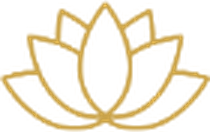
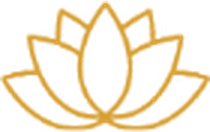
feat(pricing): alternate the badge colours and add her online illustration
Soulena asked for the family badges to alternate down the page —
green, yellow, green, yellow — with the yellow being the exact gold of
her lotus mark. Sampled off her updated Canva: #d69e30. The lotus asset
was re-keyed with that same ink, since the first extraction had averaged
the antialiased edges into a slightly duller #c9a248.

The laptop line drawing she added to the Single Session card comes with
it. The artwork is not symmetrical — the botanical sprig hangs off the
right — so centring the file would push the laptop left of the card's
axis. Her note asks for the laptop screen to line up with the middle of
the box, and the laptop sits 9.52% of the artwork width left of its own
centre, so the image is nudged back by exactly that; measured on the
rendered page, it lands within 0.04px of the card centre.

Also fixes the family blurb wrapping: it is pipe-separated and was
breaking mid-phrase on a phone ("Suitable for / all levels"). It now
breaks only at the separators.

diff --git a/src/components/PricingSection.tsx b/src/components/PricingSection.tsx
@@ -1,5 +1,12 @@
+import { Fragment } from "react";
 import { SECTION_IDS } from "@/lib/constants";
-import { PRICING, type PricingFamily, type PricingTier, type FamilyIcon } from "@/lib/pricing";
+import {
+  PRICING,
+  type PricingFamily,
+  type PricingTier,
+  type FamilyIcon,
+  type IconTone,
+} from "@/lib/pricing";
 
 // Canva page 8, redesigned by Soulena on 2026-08-19 — the bright sand panel is
 // gone. Palette and geometry were sampled straight off the export:
@@ -14,9 +21,12 @@ const GOLD = "#cba449";
 const SLATE = "#3a4e5d";
 const OLIVE = "#635f46";
 const RULE = "#d9d9d9";
-const BADGE = "#807b5d";
+const BADGE_GREEN = "#807b5d";
+// Her lotus mark and the "yellow" badges are the same ink — she asked for it
+// explicitly ("same yellow as this lotus logo").
+const BADGE_GOLD = "#d69e30";
 
-function FamilyBadge({ icon }: { icon: FamilyIcon }) {
+function FamilyBadge({ icon, tone }: { icon: FamilyIcon; tone: IconTone }) {
   const paths = {
     // three rolling lines — beach
     wave: (
@@ -57,7 +67,7 @@ function FamilyBadge({ icon }: { icon: FamilyIcon }) {
     <span
       aria-hidden
       className="absolute left-1/2 top-0 flex h-[46px] w-[46px] -translate-x-1/2 -translate-y-1/2 items-center justify-center rounded-full text-white shadow-[0_4px_10px_rgba(90,80,50,0.25)]"
-      style={{ backgroundColor: BADGE }}
+      style={{ backgroundColor: tone === "gold" ? BADGE_GOLD : BADGE_GREEN }}
     >
       <svg viewBox="0 0 24 24" fill="currentColor" className="h-[26px] w-[26px]">
         {paths[icon]}
@@ -66,13 +76,13 @@ function FamilyBadge({ icon }: { icon: FamilyIcon }) {
   );
 }
 
-function TierCard({ tier, icon }: { tier: PricingTier; icon: FamilyIcon }) {
+function TierCard({ tier, icon, tone }: { tier: PricingTier; icon: FamilyIcon; tone: IconTone }) {
   return (
     <div
       className="group relative mt-[23px] flex w-full flex-col rounded-[10px] border shadow-[6px_8px_18px_rgba(120,110,70,0.16)] transition-all duration-300 hover:-translate-y-1 hover:shadow-[8px_12px_26px_rgba(120,110,70,0.28)] sm:w-[47%] lg:w-[32%]"
       style={{ backgroundColor: CARD, borderColor: GOLD }}
     >
-      <FamilyBadge icon={icon} />
+      <FamilyBadge icon={icon} tone={tone} />
 
       <h4
         className="px-5 pb-4 pt-7 text-center font-serif text-[21px] uppercase leading-tight md:text-[24px]"
@@ -85,6 +95,20 @@ function TierCard({ tier, icon }: { tier: PricingTier; icon: FamilyIcon }) {
         <p className="text-balance text-[15px] uppercase leading-[1.45] text-brand-charcoal md:text-[16px]">
           {tier.subtitle}
         </p>
+        {tier.illustration ? (
+          /* The artwork is not symmetrical — the botanical sprig hangs off its
+             right side — so centring the file would push the laptop left. Her
+             note asks for the laptop screen to line up with the middle of the
+             card, and the laptop sits 9.5% of the image width left of centre,
+             so the image is nudged back by exactly that. */
+          <img
+            src={tier.illustration.src}
+            alt={tier.illustration.alt}
+            width={310}
+            height={186}
+            className="mx-auto mt-4 h-auto w-[62%] max-w-[190px] translate-x-[9.5%] select-none"
+          />
+        ) : null}
         {tier.note ? (
           <p className="mt-4 text-[14px] italic text-brand-charcoal md:text-[15px]">{tier.note}</p>
         ) : null}
@@ -130,13 +154,26 @@ function FamilyBlock({ family }: { family: PricingFamily }) {
           className="mx-auto mt-1.5 max-w-[760px] text-center text-[14px] leading-snug md:text-[16px]"
           style={{ color: OLIVE }}
         >
-          {family.blurb}
+          {/* The blurb is pipe-separated, so it should wrap at the separators
+              rather than mid-phrase — on a phone it was breaking "Suitable for /
+              all levels". Each segment keeps its trailing bar and never breaks
+              inside itself; the space between segments is the only break point. */}
+          {family.blurb.split(" | ").map((part, i, all) => (
+            <Fragment key={part}>
+              <span className="whitespace-nowrap">
+                {part}
+                {i < all.length - 1 ? " |" : ""}
+              </span>
+              {/* the breakable space must sit OUTSIDE the nowrap span */}
+              {i < all.length - 1 ? " " : ""}
+            </Fragment>
+          ))}
         </p>
       ) : null}
 
       <div className="mt-8 flex flex-wrap justify-center gap-x-[2%] gap-y-6 md:mt-10">
         {family.tiers.map((tier) => (
-          <TierCard key={tier.id} tier={tier} icon={family.icon} />
+          <TierCard key={tier.id} tier={tier} icon={family.icon} tone={family.iconTone} />
         ))}
       </div>
     </div>

diff --git a/src/lib/pricing.ts b/src/lib/pricing.ts
@@ -11,6 +11,12 @@
 
 export type FamilyIcon = "wave" | "person" | "duo" | "laptop";
 
+/**
+ * Badge colour. Soulena asked for the families to alternate green-yellow down
+ * the page; the yellow is the exact gold of her lotus mark (#d69e30).
+ */
+export type IconTone = "green" | "gold";
+
 export interface PricingTier {
   id: string;
   title: string;
@@ -20,6 +26,8 @@ export interface PricingTier {
   /** Rendered inside parentheses under the subtitle. */
   validity?: string;
   priceTHB: number;
+  /** Line-art illustration sitting under the subtitle, inside the card. */
+  illustration?: { src: string; alt: string };
   /**
    * Stripe Payment Link for this exact package. A tier without one simply shows
    * no card button; the other payment options on /payment still apply.
@@ -32,6 +40,7 @@ export interface PricingFamily {
   name: string;
   blurb: string;
   icon: FamilyIcon;
+  iconTone: IconTone;
   tiers: PricingTier[];
 }
 
@@ -41,6 +50,7 @@ export const PRICING: PricingFamily[] = [
     name: "Beach Yoga & Movement Class",
     blurb: "Breathe in the ocean air | Move with ease | Suitable for all levels",
     icon: "wave",
+    iconTone: "green",
     tiers: [
       {
         id: "beach-dropin",
@@ -73,6 +83,7 @@ export const PRICING: PricingFamily[] = [
     name: "Private Session Pack",
     blurb: "Personalized guidance | Deeper transformation | Flexible time & location",
     icon: "person",
+    iconTone: "gold",
     tiers: [
       {
         id: "private-5",
@@ -97,6 +108,7 @@ export const PRICING: PricingFamily[] = [
     name: "Private Duo Pack",
     blurb: "Share the experience | Inspire each other | Flexible time & location",
     icon: "duo",
+    iconTone: "green",
     tiers: [
       {
         id: "duo-5",
@@ -121,11 +133,16 @@ export const PRICING: PricingFamily[] = [
     name: "1:1 Online Yoga & Movement",
     blurb: "Personalized practice from anywhere in the world!",
     icon: "laptop",
+    iconTone: "gold",
     tiers: [
       {
         id: "online-single",
         title: "Single Session",
         subtitle: "A great place to start",
+        illustration: {
+          src: "/images/pkg-online-illustration.png",
+          alt: "Line drawing of a laptop showing someone seated in meditation, with a botanical sprig beside it",
+        },
         priceTHB: 1200,
         stripeUrl: "https://buy.stripe.com/7sY28k4rigUF0x6c3l6Na08",
       },
